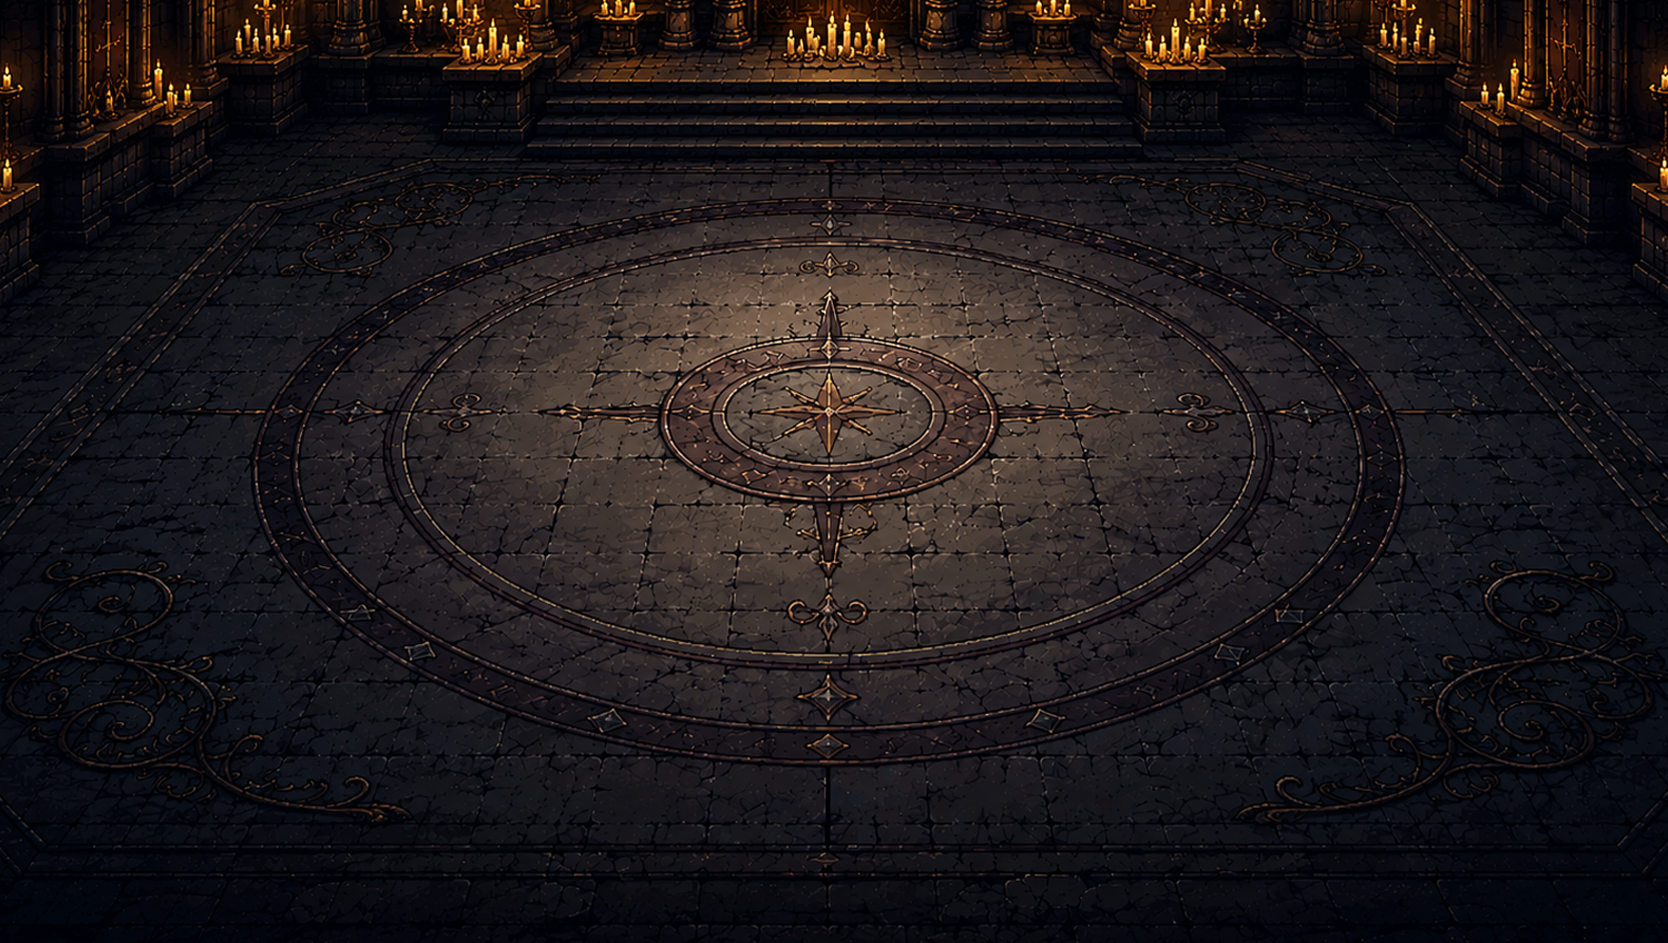
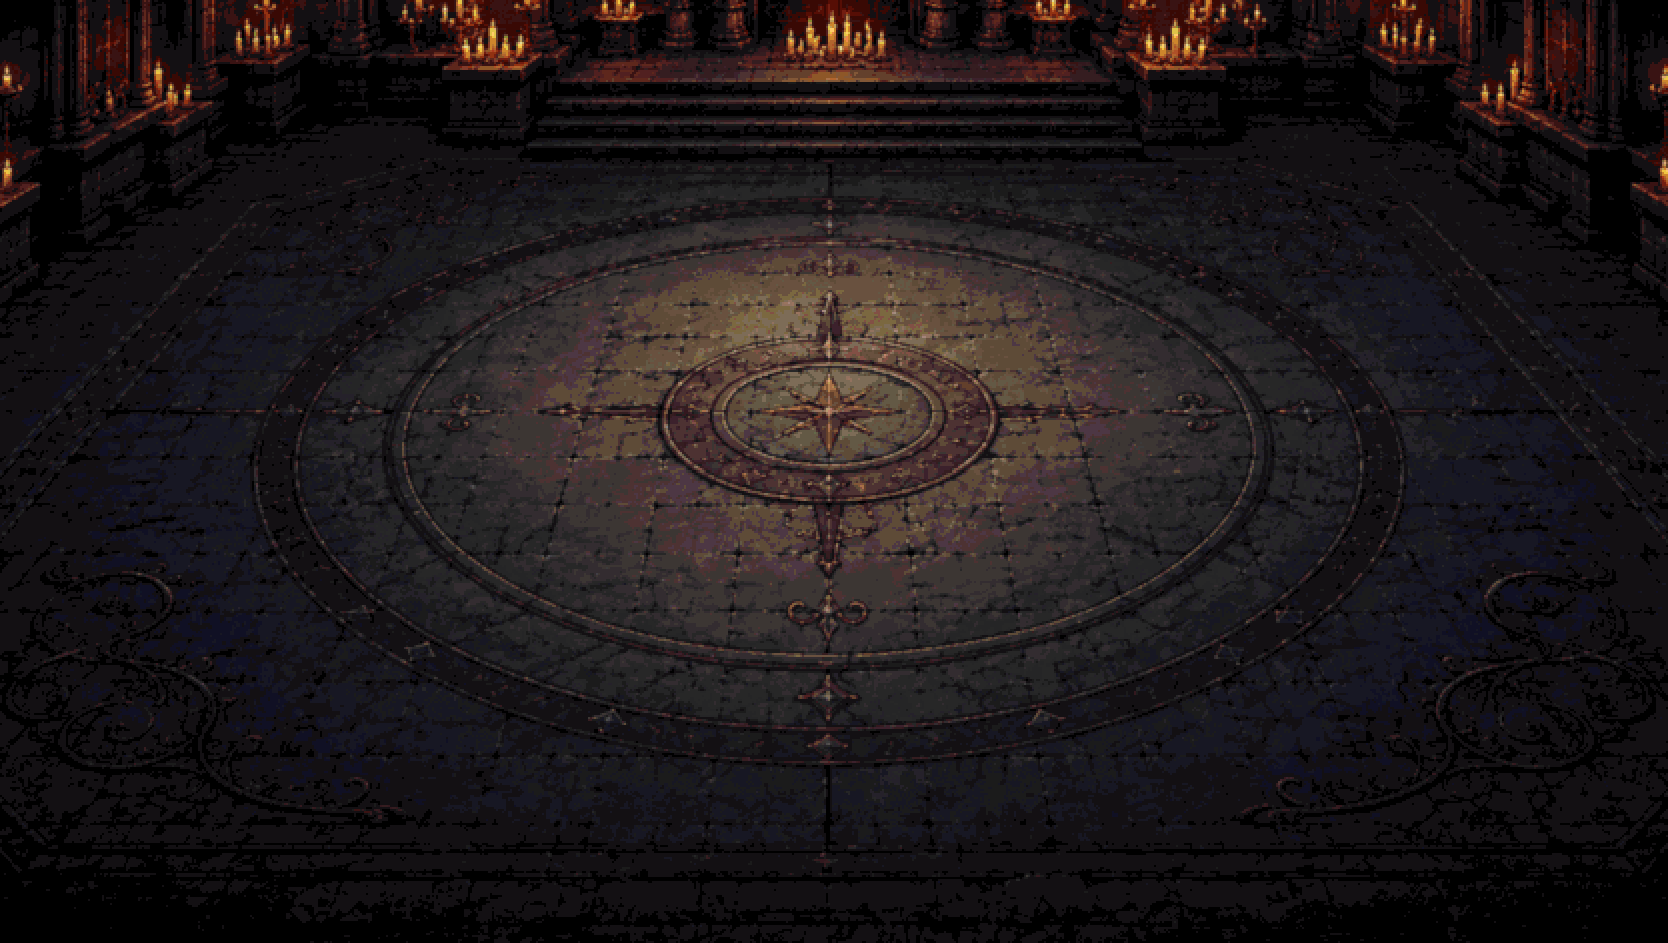
different floors

diff --git a/renderer.js b/renderer.js
@@ -7631,15 +7631,15 @@ function drawChurchUpgradeScreen(ctx, canvas, options = {}) {
     bossPhase3AshMaxAlpha: 1.0,
   });
   const CONGREGATION_ATMOSPHERE_CONFIG = Object.freeze({
-    tintColor: "rgba(214, 170, 104, 1)",
-    glowColor: "rgba(248, 214, 156, 1)",
-    vignetteColor: "rgba(42, 28, 14, 1)",
-    tintMinAlpha: 0.08,
-    tintMaxAlpha: 0.15,
-    glowMinAlpha: 0.02,
-    glowMaxAlpha: 0.06,
-    vignetteMinAlpha: 0.03,
-    vignetteMaxAlpha: 0.07,
+    tintColor: "rgba(165, 14, 22, 1)",
+    glowColor: "rgba(255, 52, 28, 1)",
+    vignetteColor: "rgba(24, 6, 8, 1)",
+    tintMinAlpha: 0.18,
+    tintMaxAlpha: 0.24,
+    glowMinAlpha: 0.03,
+    glowMaxAlpha: 0.08,
+    vignetteMinAlpha: 0.05,
+    vignetteMaxAlpha: 0.1,
     rampDurationSec: 1.8,
   });
   const waveAtmosphereTweenState = {
@@ -7780,9 +7780,12 @@ function drawChurchUpgradeScreen(ctx, canvas, options = {}) {
       0,
       Math.min(1, (Number(elapsedSec) || 0) / Math.max(0.001, CONGREGATION_ATMOSPHERE_CONFIG.rampDurationSec)),
     );
-    const tintAlpha =
-      CONGREGATION_ATMOSPHERE_CONFIG.tintMinAlpha +
-      (CONGREGATION_ATMOSPHERE_CONFIG.tintMaxAlpha - CONGREGATION_ATMOSPHERE_CONFIG.tintMinAlpha) * ramp;
+    // Match wave-1 darkness/tint target from battle atmosphere.
+    const wave1Progress = 1 / Math.max(1, WAVE_ATMOSPHERE_CONFIG.assumedWavesPerBattle);
+    const wave1TintAlpha =
+      WAVE_ATMOSPHERE_CONFIG.tintMinAlpha +
+      (WAVE_ATMOSPHERE_CONFIG.tintMaxAlpha - WAVE_ATMOSPHERE_CONFIG.tintMinAlpha) * wave1Progress;
+    const tintAlpha = wave1TintAlpha * ramp;
     const glowAlpha =
       CONGREGATION_ATMOSPHERE_CONFIG.glowMinAlpha +
       (CONGREGATION_ATMOSPHERE_CONFIG.glowMaxAlpha - CONGREGATION_ATMOSPHERE_CONFIG.glowMinAlpha) * ramp;
@@ -7844,24 +7847,24 @@ function drawChurchUpgradeScreen(ctx, canvas, options = {}) {
 
     // Left edge shadow
     const leftGrad = ctx.createLinearGradient(x, 0, x + width * 0.2, 0);
-    leftGrad.addColorStop(0, "rgba(0, 0, 0, 0.22)");
-    leftGrad.addColorStop(0.55, "rgba(0, 0, 0, 0.1)");
+    leftGrad.addColorStop(0, "rgba(0, 0, 0, 0.3)");
+    leftGrad.addColorStop(0.55, "rgba(0, 0, 0, 0.14)");
     leftGrad.addColorStop(1, "rgba(0, 0, 0, 0)");
     ctx.fillStyle = leftGrad;
     ctx.fillRect(x, y, width * 0.24, height);
 
     // Right edge shadow
     const rightGrad = ctx.createLinearGradient(x + width, 0, x + width - width * 0.2, 0);
-    rightGrad.addColorStop(0, "rgba(0, 0, 0, 0.22)");
-    rightGrad.addColorStop(0.55, "rgba(0, 0, 0, 0.1)");
+    rightGrad.addColorStop(0, "rgba(0, 0, 0, 0.3)");
+    rightGrad.addColorStop(0.55, "rgba(0, 0, 0, 0.14)");
     rightGrad.addColorStop(1, "rgba(0, 0, 0, 0)");
     ctx.fillStyle = rightGrad;
     ctx.fillRect(x + width - width * 0.24, y, width * 0.24, height);
 
     // Bottom shadow
     const bottomGrad = ctx.createLinearGradient(0, y + height, 0, y + height - height * 0.24);
-    bottomGrad.addColorStop(0, "rgba(0, 0, 0, 0.26)");
-    bottomGrad.addColorStop(0.5, "rgba(0, 0, 0, 0.12)");
+    bottomGrad.addColorStop(0, "rgba(0, 0, 0, 0.34)");
+    bottomGrad.addColorStop(0.5, "rgba(0, 0, 0, 0.16)");
     bottomGrad.addColorStop(1, "rgba(0, 0, 0, 0)");
     ctx.fillStyle = bottomGrad;
     ctx.fillRect(x, y + height - height * 0.28, width, height * 0.28);
@@ -10587,7 +10590,12 @@ function drawChurchUpgradeScreen(ctx, canvas, options = {}) {
       }
       const effectiveCameraX = resolveCameraX();
       const effectiveCameraY = 0;
-      drawBackground(effectiveCameraX, effectiveCameraY);
+      const pastorPostRecapBg = assets?.backgrounds?.districtCompleteCongregation || null;
+      if (pastorPostRecapActive && pastorPostRecapBg) {
+        drawCoverImage(ctx, canvas, pastorPostRecapBg, 1, 0.5, 0.5);
+      } else {
+        drawBackground(effectiveCameraX, effectiveCameraY);
+      }
 
       ctx.save();
       ctx.translate(-effectiveCameraX, effectiveCameraY);
@@ -10655,7 +10663,9 @@ function drawChurchUpgradeScreen(ctx, canvas, options = {}) {
     ctx.save();
     ctx.translate(-effectiveCameraX, effectiveCameraY);
 
-    const bandImg = assets?.backgroundLayers?.floor || null;
+    const bandImg = isCongregationStage
+      ? (assets?.backgroundLayers?.floorCongregation || assets?.backgroundLayers?.floor || null)
+      : (assets?.backgroundLayers?.floor || null);
     const floorBandHeight = bandImg?.height || 200;
     if (bandImg) {
       ctx.save();

diff --git a/game.js b/game.js
@@ -8008,6 +8008,15 @@ async function loadBackgroundAssets(cache, assets) {
       if (!assets.backgrounds) assets.backgrounds = {};
       assets.backgrounds.mission3 = null;
     });
+  const districtCompleteCongregationPromise = loadImage("assets/backgrounds/disctrict-complete-congregation.png")
+    .then((img) => {
+      if (!assets.backgrounds) assets.backgrounds = {};
+      assets.backgrounds.districtCompleteCongregation = maybeApplyArenaBackgroundShadowCrush(img);
+    })
+    .catch(() => {
+      if (!assets.backgrounds) assets.backgrounds = {};
+      assets.backgrounds.districtCompleteCongregation = null;
+    });
   const gameOverBackgroundPromise = loadImage("assets/backgrounds/mission-1.png")
     .then((img) => {
       if (!assets.backgrounds) assets.backgrounds = { gameOver: null };
@@ -8023,6 +8032,9 @@ async function loadBackgroundAssets(cache, assets) {
   const floorPromise = loadImage("assets/backgrounds/floor.png")
     .then((img) => { assets.backgroundLayers.floor = maybeApplyArenaBackgroundShadowCrush(img); })
     .catch(() => { assets.backgroundLayers.floor = null; });
+  const floorCongregationPromise = loadImage("assets/backgrounds/floor-congregation-1.png")
+    .then((img) => { assets.backgroundLayers.floorCongregation = maybeApplyArenaBackgroundShadowCrush(img); })
+    .catch(() => { assets.backgroundLayers.floorCongregation = null; });
   const titleBackgroundPromise = loadImage(TITLE_BACKGROUND_PATH)
     .then((img) => { assets.titleBackground = maybeApplyTitleBackgroundShadowCrush(img); })
     .catch(() => { assets.titleBackground = null; });
@@ -8032,9 +8044,11 @@ async function loadBackgroundAssets(cache, assets) {
     epiloguePromise,
     act2Promise,
     act3Promise,
+    districtCompleteCongregationPromise,
     gameOverBackgroundPromise,
     midPromise,
     floorPromise,
+    floorCongregationPromise,
     titleBackgroundPromise,
   ]);
 }
@@ -8053,7 +8067,7 @@ async function loadTitleMapAssets() {
     effects: {},
     background: null,
     backgrounds: { districtIntro: null },
-    backgroundLayers: { far: null, mid: null, floor: null },
+    backgroundLayers: { far: null, mid: null, floor: null, floorCongregation: null },
     npcs: null,
     items: {},
   };
